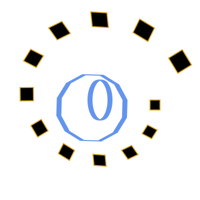
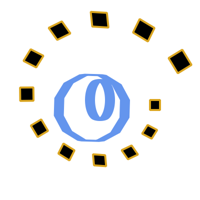
Revert mid_path image, set width to 2 for now

diff --git a/testbed/tests/widgets/canvas/test_canvas.py b/testbed/tests/widgets/canvas/test_canvas.py
@@ -712,6 +712,11 @@ async def test_transforms(canvas, probe, restore_method):
 async def test_transforms_mid_path(canvas, probe):
     """Transforms can be applied mid-path."""
 
+    # See #4474. Right now, Windows doesn't properly stretch the stroke to account for
+    # transforms, *if* the stroke width is 1. Once that's fixed, we should test both 1
+    # and 2 (or a larger number).
+    canvas.line_width = 2.0
+
     # draw a series of rotated rectangles
     canvas.begin_path()
     canvas.translate(100, 100)